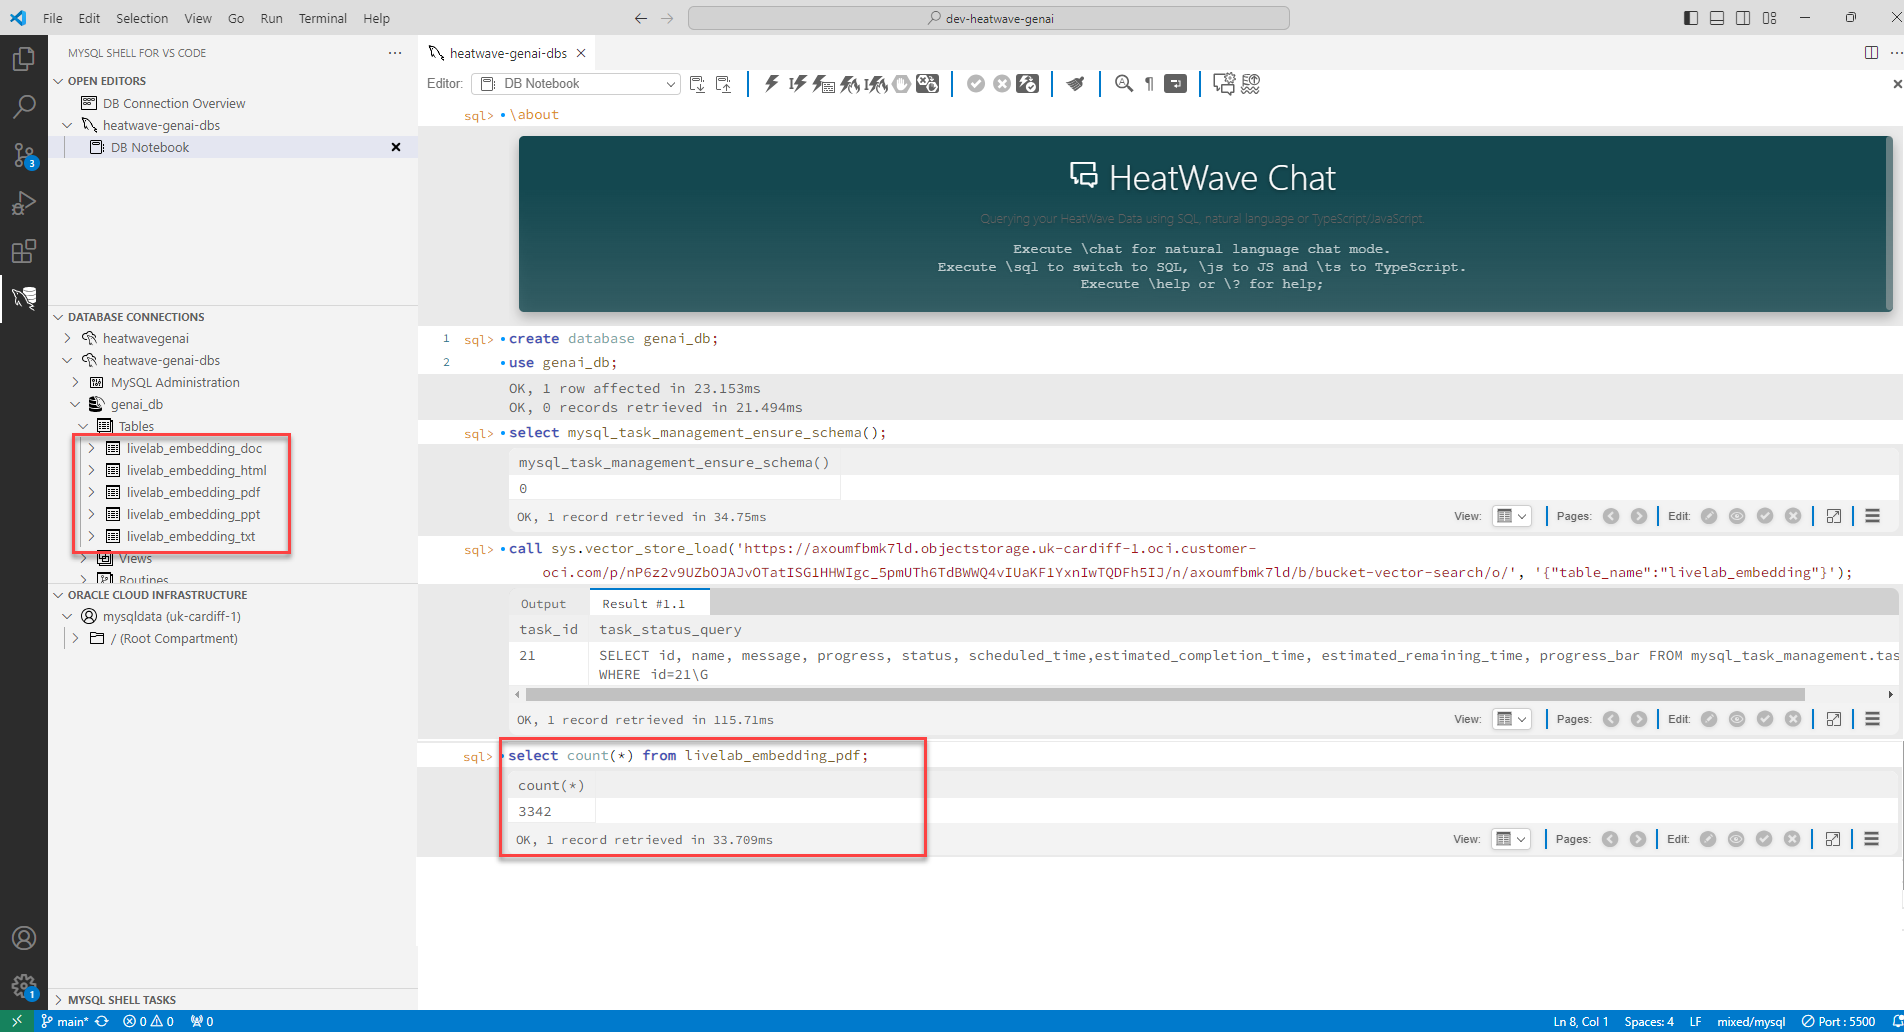
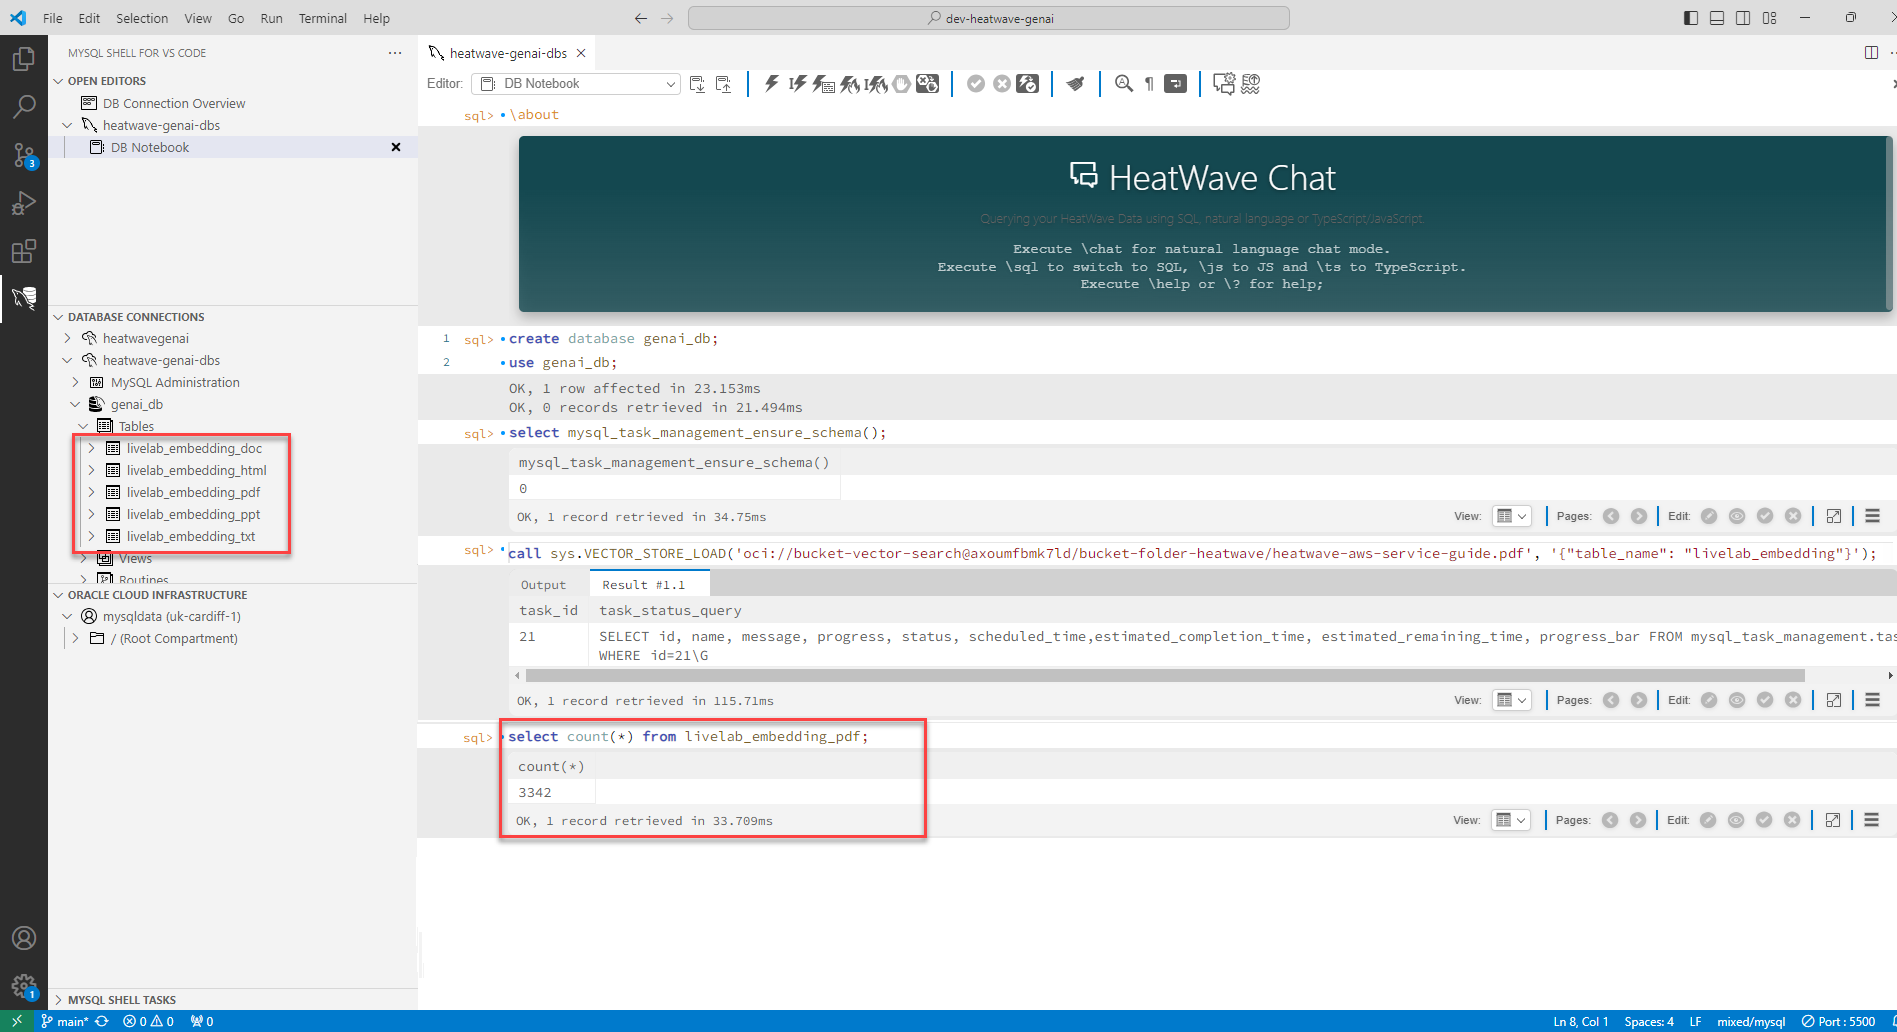
WMS ID: 11730: Updated Lab4

diff --git a/vector-search/vector-search.md b/vector-search/vector-search.md
@@ -106,11 +106,7 @@ Dynamic groups allow you to group Oracle Cloud Infrastructure resources as princ
 
     ![Click Domain](./images/19-click-domain.png "Click Domain")
 
-2. If you have logged in using an identity domain (Lab 3, Task 1), click the name of the identity domain. 
-
-    ![Current Domain](./images/20-current-domain.png "Click Domain")
-
-3. If you have logged in using the Default identity domain (Lab 3, Task 1), click **Create domain**.
+2. Click **Create domain**.
 
     1. Enter a name for the domain in **Display name**.
 
@@ -139,8 +135,6 @@ Dynamic groups allow you to group Oracle Cloud Infrastructure resources as princ
     ![Click dynamic group](./images/21-click-dynamic-group.png "Click group")
 
 5. Click **Create dynamic group**.
-
-    ![Create dynamic group](./images/22-create-dynamic-group.png "Create dynamic group")
 
 6. In the **Create dynamic group** page, enter a **Name** and a **Description** for the dynamic group. *Note* the name of the dynamic group.
 
@@ -201,37 +195,18 @@ To access Object Storage from HeatWave, you must define a policy that enables th
 
 5. Toggle the **Show manual editor** button, and paste the following policy.
 
-    - If you have logged in using an identity domain:
+    ```bash
+    <copy>Allow dynamic-group <IdentityDomain>/<DynamicGroupName> to read buckets in compartment <CompartmentName></copy>
+    <copy>Allow dynamic-group <IdentityDomain>/<DynamicGroupName> to read objects in compartment <CompartmentName></copy>
+    ```
+    Replace IdentityDomain with the identity domain, DynamicGroupName with the name of the dynamic group, and CompartmentName with the name of the compartment.
 
-        ```bash
-        <copy>Allow dynamic-group <IdentityDomain>/<DynamicGroupName> to read buckets in compartment <CompartmentName></copy>
-        <copy>Allow dynamic-group <IdentityDomain>/<DynamicGroupName> to read objects in compartment <CompartmentName></copy>
-        ```
-
-        Replace IdentityDomain with the identity domain, DynamicGroupName with the name of the dynamic group, and CompartmentName with the name of the compartment.
-
-        For example:
+    For example:
         
-        ```bash
-        <copy>Allow dynamic-group OracleCloudIdentityDomain/heatwave-genai-dynamic-group to read buckets in compartment heatwave-genai</copy>
-        <copy>Allow dynamic-group OracleCloudIdentityDomain/heatwave-genai-dynamic-group to read objects in compartment heatwave-genai</copy>
-        ```
-
-    - If you have logged in using the default identity domain:
-
-        ```bash
-        <copy>Allow dynamic-group <DynamicGroupName> to read buckets in compartment <CompartmentName></copy>
-        <copy>Allow dynamic-group <DynamicGroupName> to read objects in compartment <CompartmentName></copy>
-        ```
-
-        Replace DynamicGroupName with the name of the dynamic group, and CompartmentName with the name of the compartment.
-
-        For example:
-        
-        ```bash
-        <copy>Allow dynamic-group heatwave-genai-dynamic-group to read buckets in compartment heatwave-genai</copy>
-        <copy>Allow dynamic-group heatwave-genai-dynamic-group to read objects in compartment heatwave-genai</copy>
-        ```
+    ```bash
+    <copy>Allow dynamic-group heatwave-genai-domain/heatwave-genai-dynamic-group to read buckets in compartment heatwave-genai</copy>
+    <copy>Allow dynamic-group heatwave-genai-domain/heatwave-genai-dynamic-group to read objects in compartment heatwave-genai</copy>
+    ```
 
   6. Click **Create**.
 
@@ -287,7 +262,7 @@ Pre-authenticated requests provide a way to let you access a bucket or an object
 4. Ingest the file from the Object Storage, create vector embeddings, and load the vector embeddings into HeatWave:
 
     ```bash
-    <copy>call sys.VECTOR_STORE_LOAD('<PAR>', '{"table_name": "<EmbeddingsTableName>"}');</copy>
+    <copy>call sys.VECTOR_STORE_LOAD('oci://BucketName@Namespace/Path/Filename', '{"table_name": "VectorStoreTableName"}');</copy>
     ```
     Replace the following:
 
@@ -297,7 +272,7 @@ Pre-authenticated requests provide a way to let you access a bucket or an object
     For example:
 
     ```bash
-    <copy>call sys.VECTOR_STORE_LOAD('https://axoumfbmk7ld.objectstorage.uk-cardiff-1.oci.customer-oci.com/p/XKR6gUuquT8bSL-ftu89F58FTblCr8QcoN5JcuUzpVE8FqQZ5kgEvr1WR-a5lIYv/n/axoumfbmk7ld/b/bucket-vector-search/o/', '{"table_name": "livelab_embedding"}');</copy>
+    <copy>call sys.VECTOR_STORE_LOAD('oci://bucket-vector-search@axoumfbmk7ld/bucket-folder-heatwave/heatwave-aws-service-guide.pdf', '{"table_name": "EmbeddingsTableName"}');</copy>
     ```
 
     ![Ingest files from Object Storage](./images/14-ingest-files.png "Ingest files from Object Storage")

diff --git a/connect-dbs-vscode/connect-dbs-vscode.md b/connect-dbs-vscode/connect-dbs-vscode.md
@@ -28,35 +28,31 @@ Before you can get started, you must set up a DB Connection to the HeatWave inst
     
     ![Enter cloud account name](./images/1-cloud-account-name.png "Enter cloud account name")
 
-3. If you have an identity domain, select the identity domain.
-
-    ![Select identity domain](./images/15-identity-domain.png "Select identity domain")
-
-4. If you do not have identity domain, select **Default**.
+3. Select **Default** as the identity domain.
 
     ![Default identity domain](./images/16-default-identity-domain.png "Default identity domain")
 
-5. Enter your **Username** and **Password** and click **Sign In**.
+4. Enter your **Username** and **Password** and click **Sign In**.
 
     ![Enter username and password](./images/2-username.png "Enter username and password")
 
-6. Click **Profile** and select **My Profile**.
+5. Click **Profile** and select **My Profile**.
 
     ![My profile](./images/3-profile.png "My profile")
 
-7.	Under **Resources**, click **API keys**, and click **Add API key**.
+6.	Under **Resources**, click **API keys**, and click **Add API key**.
 
-8. Click **Download private key** and store the API Key in a .oci folder inside your home directory. Then click **Add**.
+7. Click **Download private key** and store the API Key in a .oci folder inside your home directory. Then click **Add**.
     
     ![Download private key](./images/4-add-api-key.png "Download private key")
 
-9. Copy the configuration file text and switch to VS Code.
+8. Copy the configuration file text and switch to VS Code.
 
     ![Copy configuration file](./images/5-copy-config.png "Copy configuration file")
 
-10. In VS Code, select the **MySQL Shell for VS Code** extension.
+9. In VS Code, select the **MySQL Shell for VS Code** extension.
 
-11. Click **Configure the OCI Profile List** in the **ORACLE CLOUD INFRASTRUCTURE** view, and paste the configuration file text into the config file.
+10. Click **Configure the OCI Profile List** in the **ORACLE CLOUD INFRASTRUCTURE** view, and paste the configuration file text into the config file.
 
     - Rename the top section from [DEFAULT] to the name of the tenancy, [TenancyName]
     - Update the path to the API Key you had stored in your home directory.
